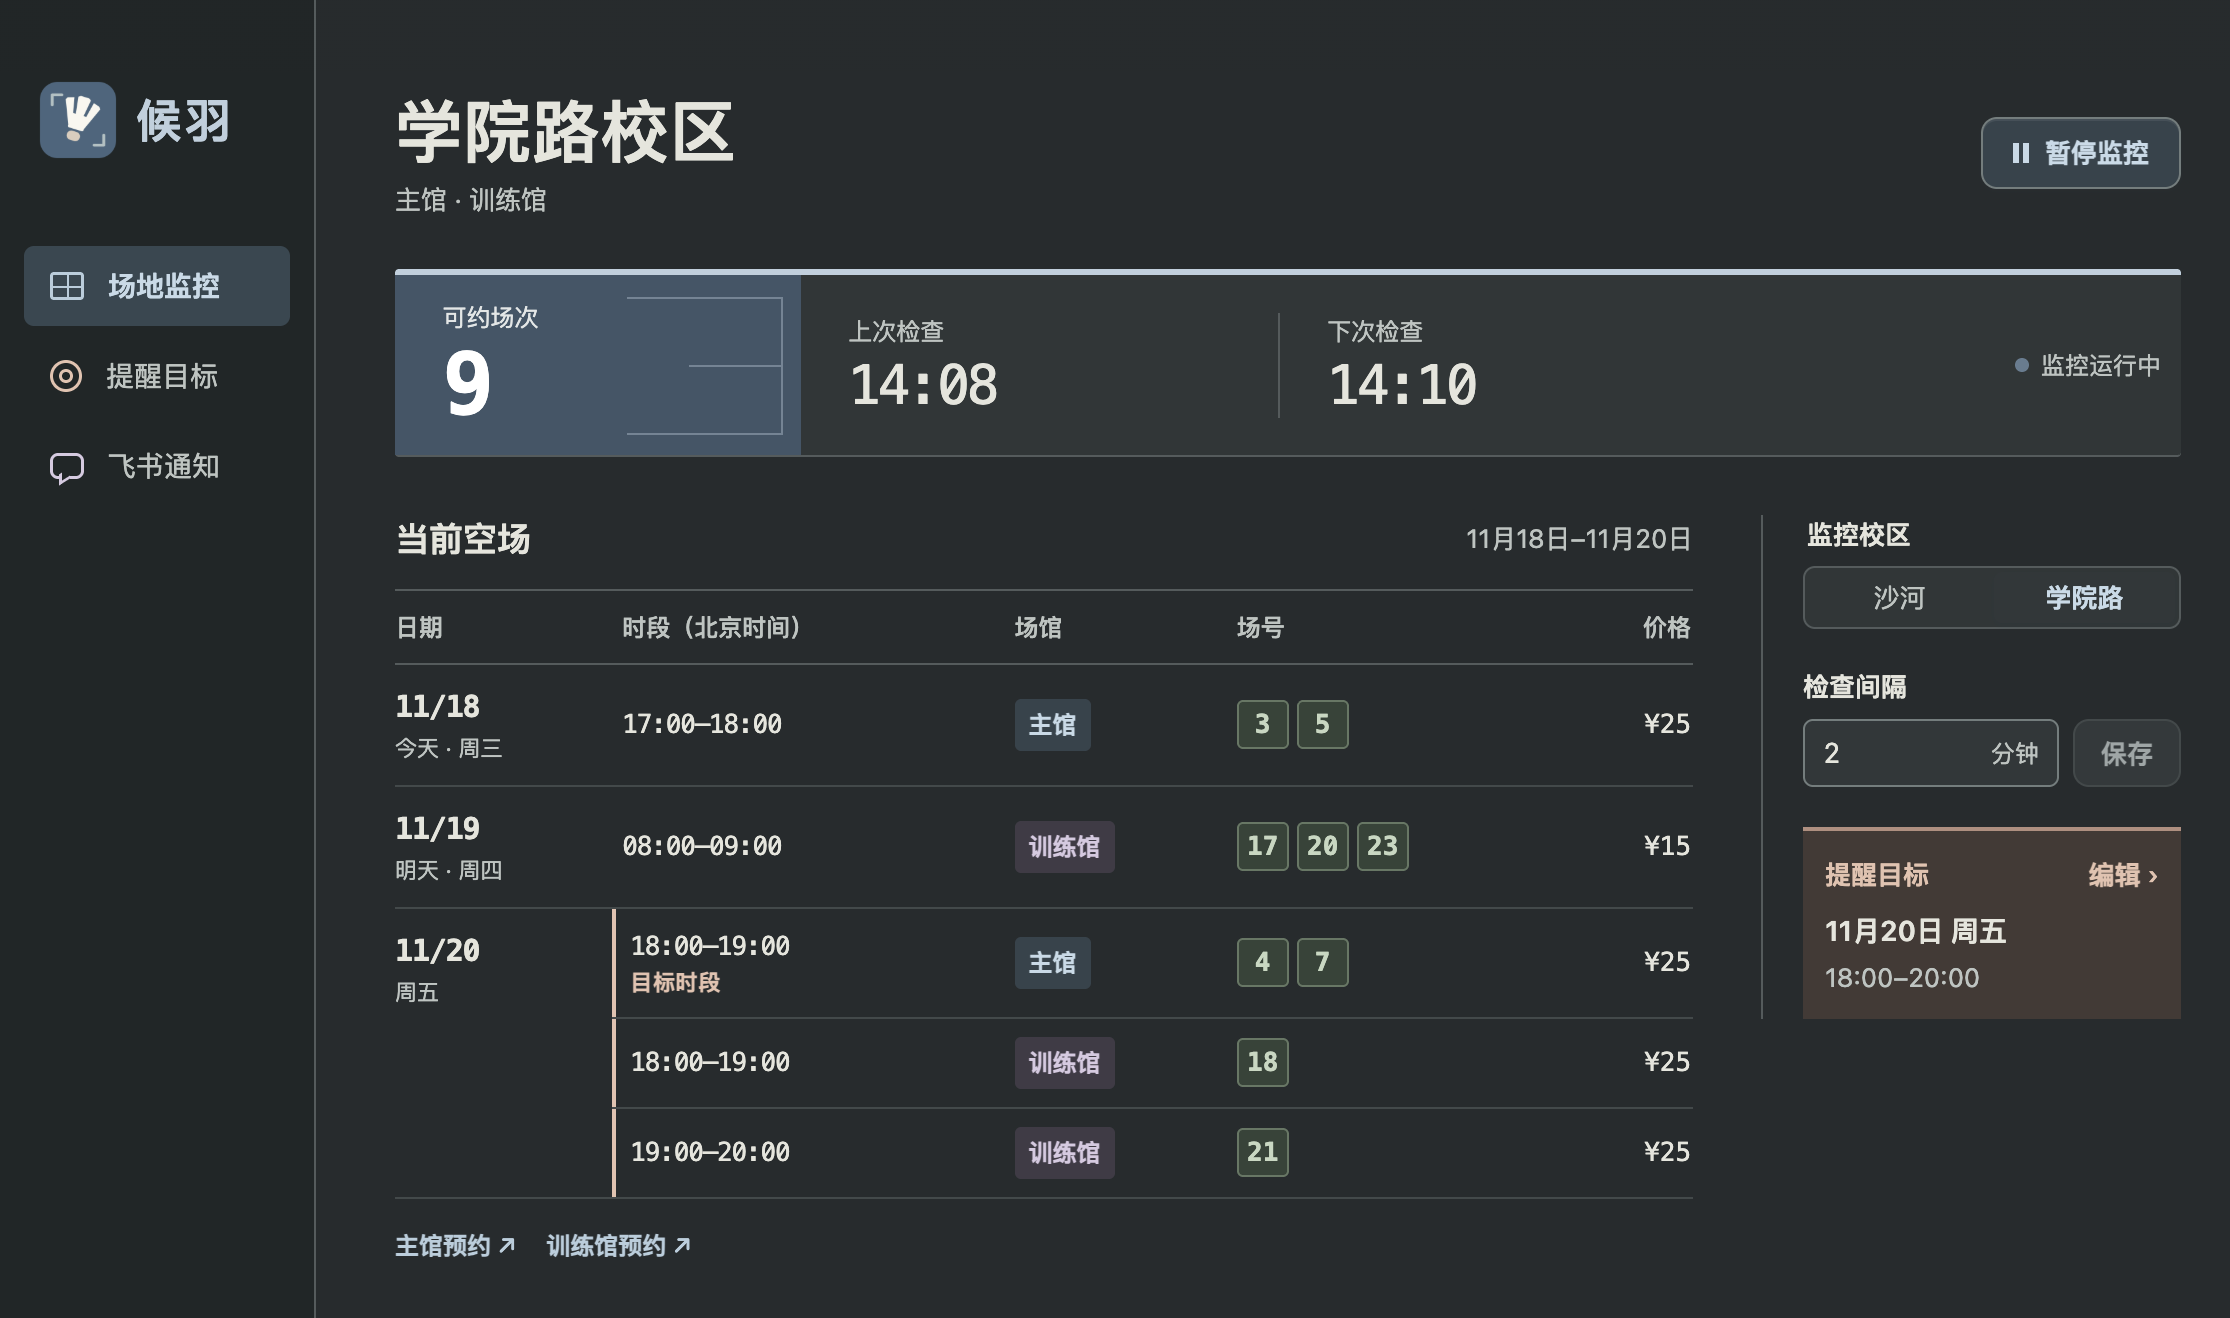
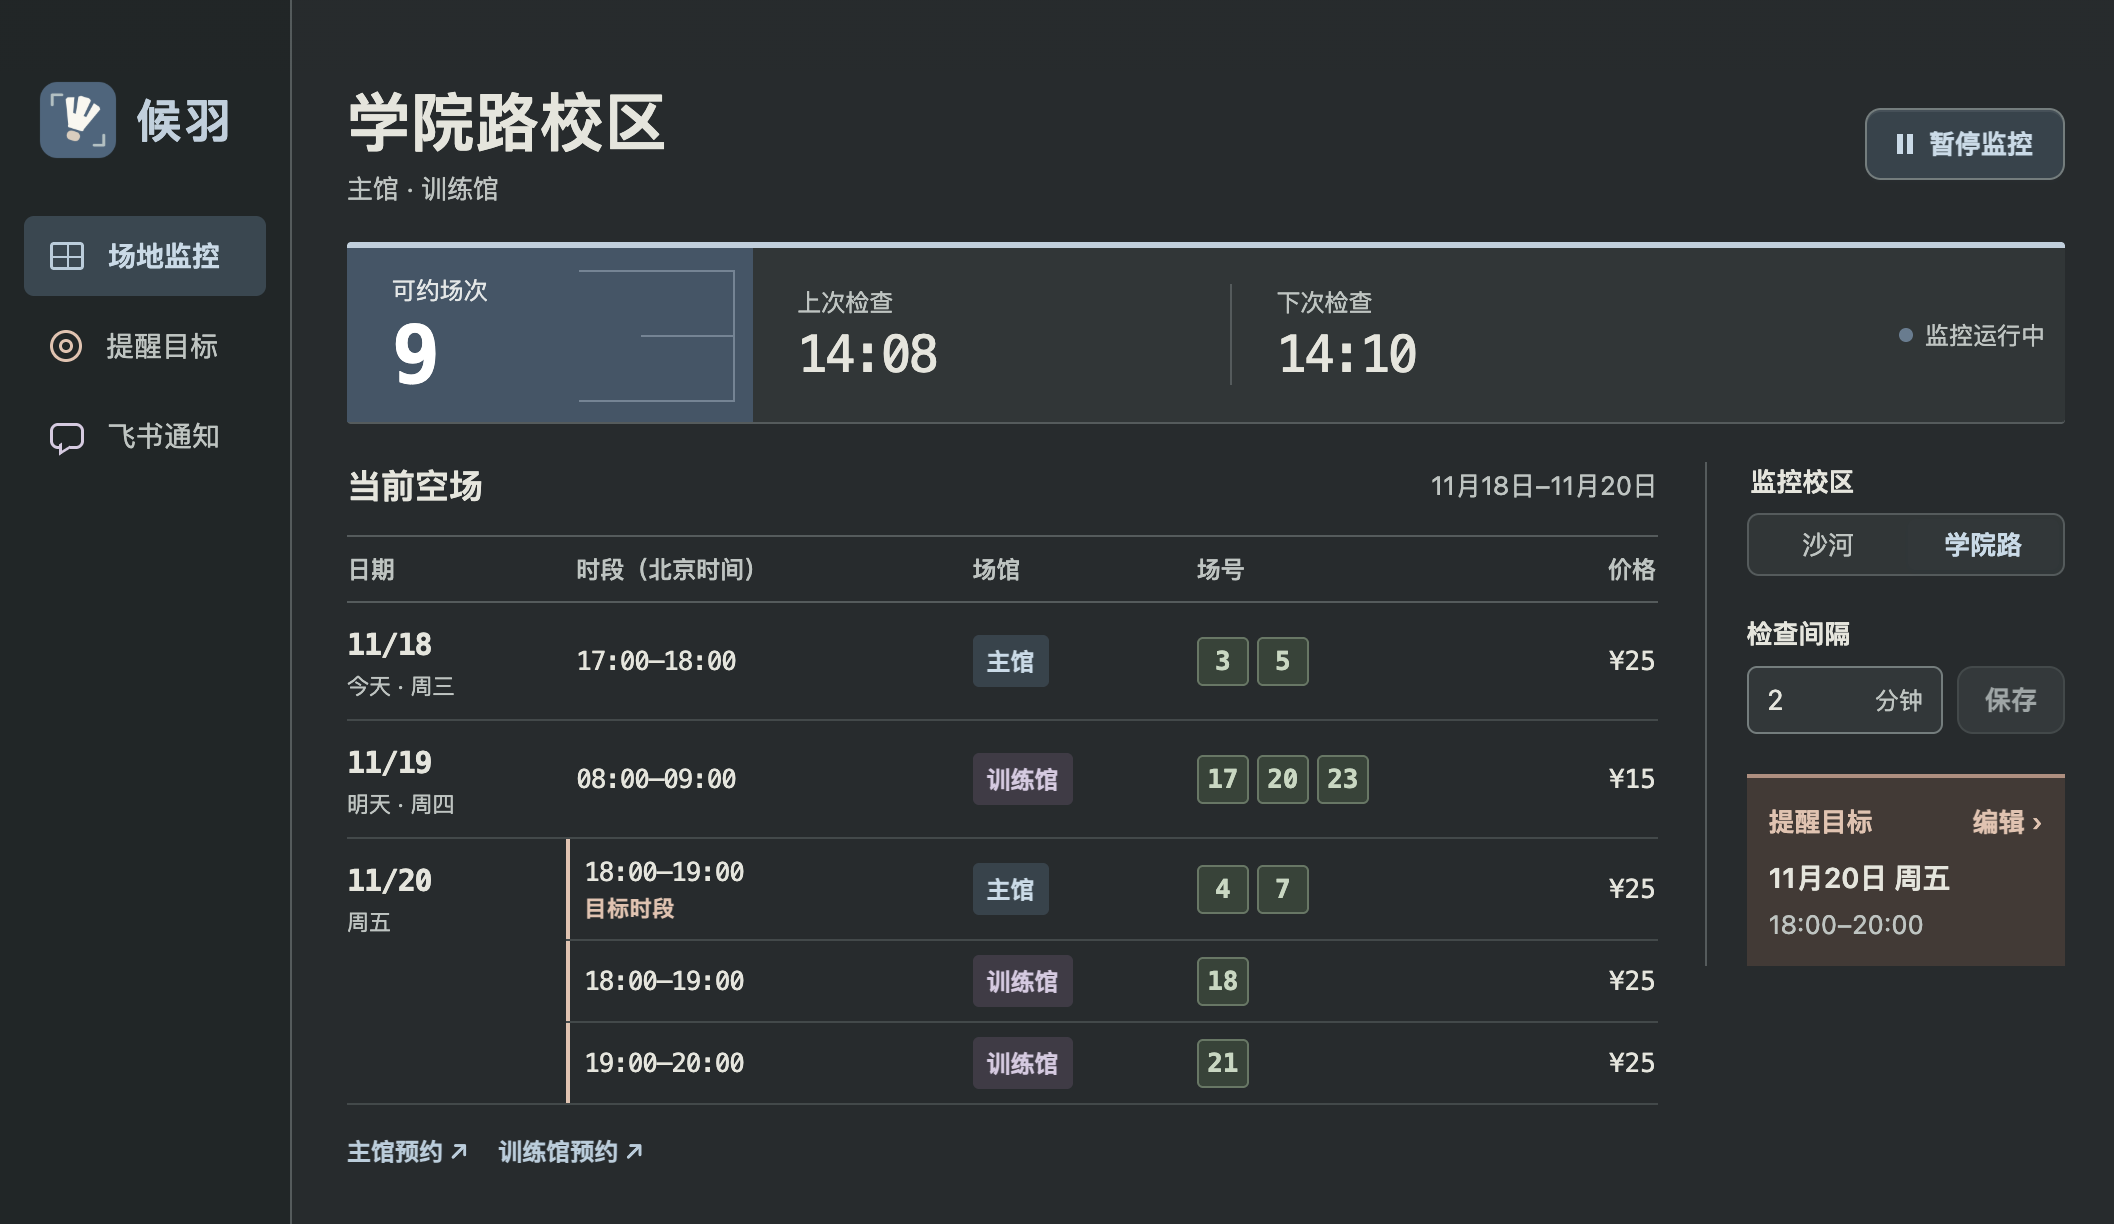
Bring the schedule, target range and Feishu preview into a compact desktop layout

diff --git a/src/ui/styles.css b/src/ui/styles.css
@@ -3,7 +3,7 @@
   font: 14px/1.5 -apple-system, BlinkMacSystemFont, "Segoe UI", "PingFang SC", "Microsoft YaHei UI", system-ui, sans-serif;
   color: var(--ink);
   background: var(--surface);
-  --rail-width: 158px;
+  --rail-width: 146px;
   --bar-height: 0px;
   --ink: light-dark(#333f47, #e5e5dc);
   --blue: light-dark(#49667e, #b7cedd);
@@ -58,7 +58,7 @@ h2 { font-size: 17px; line-height: 1.4; font-weight: 650; }
   padding: calc(40px - var(--bar-height)) 12px 16px; background: var(--rail); border-right: 1px solid var(--line);
 }
 .brand, .nav, .account-state, .status, .button { display: inline-flex; align-items: center; }
-.brand { gap: 9px; margin: 0 7px 43px; }
+.brand { gap: 9px; margin: 0 7px 28px; }
 .brand img { display: block; width: 40px; height: 40px; }
 .brand strong { color: var(--navy); font-size: 23px; letter-spacing: .06em; }
 .navigation { display: grid; gap: 5px; }
@@ -96,8 +96,8 @@ h2 { font-size: 17px; line-height: 1.4; font-weight: 650; }
 .dot, #push-status::before { display: inline-block; width: 7px; height: 7px; flex: none; border-radius: 50%; background: #737d82; }
 .dot[data-tone=good], [data-tone=good] .dot, #push-status[data-tone=good]::before { background: #647d91; }
 .dot[data-tone=warn], [data-tone=warn] .dot, #push-status[data-tone=warn]::before { background: #a26354; }
-.workspace { grid-column: 2; grid-row: 2; overflow: auto; scroll-padding: 12px; width: 100%; max-width: 1450px; min-width: 0; margin: 0 auto; padding: calc(43px - var(--bar-height)) clamp(18px, 3.5vw, 54px) 38px; }
-.page-head { display: flex; justify-content: space-between; align-items: center; gap: 12px; margin-bottom: 25px; min-height: 58px; }
+.workspace { grid-column: 2; grid-row: 2; overflow: auto; scroll-padding: 12px; width: 100%; max-width: 1500px; min-width: 0; margin: 0 auto; padding: max(4px, calc(39px - var(--bar-height))) clamp(18px, 2.6vw, 38px) 25px; }
+.page-head { display: flex; justify-content: space-between; align-items: center; gap: 12px; margin-bottom: 17px; min-height: 50px; }
 .page-head p, .subtle, .field-note, .push-instructions, #saved-place, #shortcut-place { color: var(--muted); font-size: 13px; }
 .page-head p { margin-top: 3px; }
 .button { justify-content: center; gap: 8px; min-height: 33px; padding: 5px 13px; background: var(--input); border: 1px solid var(--control-border); border-radius: 8px; box-shadow: inset 0 1px 0 var(--shine), 0 1px 2px #2d393d15; font-weight: 560; white-space: nowrap; font-size: 13px; }
@@ -135,13 +135,13 @@ h2 { font-size: 17px; line-height: 1.4; font-weight: 650; }
 .status { color: var(--muted); font-size: 12px; white-space: nowrap; }
 .scoreboard .status { margin-right: 10px; }
 #push-status::before { content: ''; }
-.monitor-grid { display: grid; grid-template-columns: minmax(0, 1fr) 210px; align-items: start; gap: clamp(21px, 3vw, 42px); margin-top: 29px; }
-.section-head, .connection-head, .saved-strip { display: flex; align-items: center; justify-content: space-between; gap: 8px 12px; }
+.monitor-grid { display: grid; grid-template-columns: minmax(0, 1fr) clamp(170px, 17vw, 224px); align-items: start; gap: clamp(15px, 2.2vw, 32px); margin-top: 19px; }
+.section-head, .connection-head { display: flex; align-items: center; justify-content: space-between; gap: 8px 12px; }
 .section-head { margin-bottom: 13px; flex-wrap: wrap; }
 .schedule, .table-wrap { min-width: 0; }
 .table-wrap { overflow-x: auto; }
 table { border-collapse: collapse; width: 100%; font-variant-numeric: tabular-nums; }
-table th, table td { text-align: left; padding: 9px 5px; }
+table th, table td { text-align: left; padding: 7px 5px; }
 thead th { border-block: 1px solid var(--line); font-weight: 500; font-size: 12px; color: var(--muted); }
 thead th:first-child, .date-cell { padding-left: 0; }
 table :is(th,td):last-child { text-align: right; padding-right: 1px; }
@@ -163,7 +163,7 @@ tbody .new-day > *, .date-cell { border-top: 1px solid var(--line); }
 .court-number { min-width: 26px; padding: 2px 4px; border: 1px solid var(--court-border); border-radius: 3px; background: var(--court-fill); color: var(--green); font: 600 13px/1.4 var(--numeric); text-align: center; }
 .booking-links { display: flex; flex-wrap: wrap; align-items: center; gap: 3px 15px; margin-top: 11px; }
 .booking-links .quiet { font-size: 12px; }
-.empty { display: grid; align-content: center; justify-items: center; min-height: 140px; text-align: center; padding: 18px; border-block: 1px solid var(--line); }
+.empty { display: grid; align-content: center; justify-items: start; min-height: 96px; padding: 15px 3px; border-block: 1px solid var(--line); }
 .empty strong { font-size: 15px; font-weight: 560; }
 .empty p { margin-top: 4px; color: var(--muted); font-size: 13px; }
 .inspector { min-width: 0; padding-left: 20px; border-left: 1px solid var(--line); }
@@ -191,25 +191,41 @@ input::placeholder { color: var(--muted); }
 .shortcut .section-head { margin-bottom: 5px; }
 #shortcut-range { font-size: 14px; font-weight: 600; }
 #shortcut-place { white-space: pre-line; margin-top: 3px; }
-.form-sheet { max-width: 590px; border-top: 3px solid var(--navy); }
-.saved-strip, .connection-head { min-height: 60px; padding: 12px 0; border-bottom: 1px solid var(--line); }
-.saved-strip > div { display: flex; flex-wrap: wrap; align-items: baseline; gap: 3px 13px; }
-.saved-strip .field-label { color: var(--muted); font-size: 12px; }
+.form-sheet { border-top: 2px solid var(--navy); }
+.split-sheet { display: grid; grid-template-columns: minmax(0, 1.35fr) minmax(215px, .85fr); gap: clamp(16px, 2.6vw, 36px); align-items: start; padding-top: 16px; }
+.sheet-heading, .connection-head { min-height: 36px; padding-bottom: 9px; border-bottom: 1px solid var(--line); }
 #page-target .form-sheet { border-top-color: #a8806d; }
-.saved-strip { padding-inline: 14px; background: var(--clay-paper); }
+.saved-strip { display: grid; justify-items: start; min-width: 0; padding: 13px 15px; border-left: 3px solid #a8806d; background: var(--clay-paper); }
+.saved-strip h2, .message-preview h2 { font-size: 13px; font-weight: 650; margin-bottom: 10px; }
+.saved-strip h2 { color: var(--clay-ink); }
+.saved-strip > strong { font-size: 16px; }
+#saved-place { color: var(--clay-ink); font-size: 16px; font-variant-numeric: tabular-nums; }
+.day-band { width: 100%; margin: 12px 0; }
+.day-band svg { display: block; width: 100%; height: 10px; }
+.band-base { fill: var(--control-border); }
+#band-range { fill: var(--clay-ink); }
+.band-ticks { stroke: var(--clay-paper); stroke-width: 5; }
+.day-band div { display: flex; justify-content: space-between; margin-top: 3px; color: var(--muted); font: 11px var(--numeric); }
+#target-coverage { font-size: 13px; }
+.saved-strip button { margin-top: 8px; }
 .saved-strip .quiet { color: var(--clay-ink); }
 .push-sheet { border-top-color: #91849a; }
-.connection-head { padding-inline: 14px; background: var(--plum-paper); }
-.saved-strip strong { font-size: 15px; }
-.form-row { display: grid; grid-template-columns: 94px minmax(0, 1fr); align-items: baseline; gap: 9px; margin: 18px 0; }
-.form-row > label, .coverage-row .field-label { font-weight: 600; font-size: 13px; }
+.message-preview { min-width: 0; padding-left: clamp(12px, 1.7vw, 24px); border-left: 1px solid var(--line); }
+.message-preview h2 { color: var(--plum-ink); }
+.message-card { overflow: hidden; border: 1px solid var(--line); border-radius: 7px; background: var(--input); font-size: 13px; }
+.message-top, .message-body { padding: 10px 12px; }
+.message-top { color: var(--selected-ink); background: var(--blue-paper); }
+.message-top strong, .message-top small { display: block; }
+.message-top small { margin-top: 3px; font-size: 12px; }
+.message-body p { margin-top: 3px; }
+.form-row { display: grid; grid-template-columns: 76px minmax(0, 1fr); align-items: baseline; gap: 8px; margin: 13px 0; }
+.form-row > label { font-weight: 600; font-size: 13px; }
 #target-date { width: min(100%, 220px); }
 .range-fields, .form-foot, .push-actions { display: flex; gap: 10px; align-items: center; flex-wrap: wrap; }
 .range-fields input { width: 118px; }
 .range-fields span { color: var(--muted); }
 .field-note { margin-top: 6px; }
 .form-foot { border-top: 1px solid var(--line); padding-top: 15px; margin-top: 16px; }
-.coverage-row p { font-size: 13px; }
 .push-instructions { margin: 16px 0; }
 .push-instructions .quiet { margin-left: 5px; }
 .push-actions { margin-top: 16px; gap: 8px 16px; }
@@ -224,6 +240,9 @@ input::placeholder { color: var(--muted); }
   .inspector { padding-left: 14px; }
 }
 @media (max-width: 900px) {
+  .split-sheet { grid-template-columns: minmax(0, 1fr); gap: 18px; }
+  .message-preview { padding: 13px 0 0; border: 0; border-top: 1px solid var(--line); }
+  .message-card { max-width: 420px; }
   .monitor-grid { grid-template-columns: minmax(0, 1fr); }
   .inspector { display: grid; grid-template-columns: minmax(0, 1.3fr) minmax(155px, 1fr); gap: 20px; border: 0; border-top: 1px solid var(--line); padding: 14px 0 0; }
   .shortcut { align-self: start; margin: 0; }

diff --git a/src/ui/index.html b/src/ui/index.html
@@ -74,25 +74,35 @@
 
       <section id="page-target" aria-labelledby="target-title" hidden>
         <header class="page-head"><div><h1 id="target-title">提醒目标</h1><p id="target-campus"></p></div></header>
-        <div class="form-sheet">
-          <div class="saved-strip"><div><span class="field-label">当前范围</span><strong id="saved-range"></strong><span id="saved-place"></span></div><button class="quiet" type="button" id="clear-target" hidden>移除目标</button></div>
-          <p class="warning" id="saved-note" hidden></p>
+        <div class="form-sheet split-sheet">
           <form id="target-form">
+            <h2 class="sheet-heading">选择时段</h2>
             <div class="form-row"><label for="target-date">日期</label><input id="target-date" type="date" aria-describedby="target-error" required></div>
             <div class="form-row"><label for="target-start">时段</label><div class="form-value">
               <div class="range-fields"><input id="target-start" type="time" aria-label="开始时间" required><span aria-hidden="true">—</span><input id="target-end" type="time" aria-label="结束时间" aria-describedby="target-error" required></div>
               <p class="field-note">按北京时间，场次须完整落在此时段内。</p>
             </div></div>
-            <div class="form-row coverage-row"><span class="field-label">场地</span><p id="target-coverage"></p></div>
             <p class="form-error" id="target-error" role="alert" hidden></p>
             <div class="form-foot"><button type="submit" class="button primary" id="save-target">保存目标</button></div>
           </form>
+          <aside class="saved-strip" aria-labelledby="saved-heading">
+            <h2 id="saved-heading">当前提醒范围</h2>
+            <strong id="saved-range"></strong><span id="saved-place"></span>
+            <div class="day-band" aria-hidden="true">
+              <svg viewBox="0 0 1440 12" preserveAspectRatio="none" focusable="false"><rect class="band-base" x="0" y="3" width="1440" height="6"></rect><rect id="band-range" x="0" y="2" width="1440" height="8"></rect><path d="M360 0v12 M720 0v12 M1080 0v12" class="band-ticks"></path></svg>
+              <div><span>00</span><span>06</span><span>12</span><span>18</span><span>24</span></div>
+            </div>
+            <p id="target-coverage"></p>
+            <p class="warning" id="saved-note" hidden></p>
+            <button class="quiet" type="button" id="clear-target" hidden>移除目标</button>
+          </aside>
         </div>
       </section>
 
       <section id="page-feishu" aria-labelledby="feishu-title" hidden>
         <header class="page-head"><div><h1 id="feishu-title">飞书通知</h1></div></header>
-        <div class="form-sheet push-sheet">
+        <div class="form-sheet split-sheet push-sheet">
+          <section class="connection-settings" aria-label="群机器人设置">
           <div class="connection-head"><h2>群机器人</h2><span class="status" id="push-status" data-tone="neutral">未连接</span></div>
           <p id="push-service" class="field-note" hidden></p>
           <form id="push-form" autocomplete="off" aria-describedby="connect-note">
@@ -109,6 +119,14 @@
           </div>
           <p id="storage-note" class="warning" hidden>系统安全存储不可用，本次连接仅在退出前有效。</p>
           <p class="feedback" id="push-feedback" role="status" hidden></p>
+          </section>
+          <aside class="message-preview" aria-labelledby="sample-heading">
+            <h2 id="sample-heading">群消息示例</h2>
+            <div class="message-card">
+              <div class="message-top"><strong id="preview-title"></strong><small>17:42 · 北京时间</small></div>
+              <div class="message-body"><strong id="preview-date"></strong><p id="preview-slot"></p><p>场号 <strong>3、5 号</strong>　·　¥25/场</p></div>
+            </div>
+          </aside>
         </div>
       </section>
     </main>

diff --git a/src/ui/renderer.js b/src/ui/renderer.js
@@ -105,6 +105,11 @@ function renderTarget(options, venues, now) {
   text('saved-range', range);
   text('shortcut-range', range);
   text('saved-place', place);
+  const minute = clock => Number(clock.slice(0, 2)) * 60 + Number(clock.slice(3));
+  const start = target ? minute(target.start) : 0;
+  const end = target ? minute(target.end) : target === null ? 0 : 1440;
+  get('band-range').setAttribute('x', String(start));
+  get('band-range').setAttribute('width', String(end - start));
   text('shortcut-place', place);
   text('saved-note', note);
   get('saved-note').hidden = !note;
@@ -338,6 +343,9 @@ function render() {
   }
 
   const legacyService = { pushplus: 'PushPlus', serverchan: 'Server酱' }[current.pushService];
+  text('preview-title', `候羽｜${campusNames[options.campus]}疑似退订 2 场次`);
+  text('preview-date', shortDay(isoDay.format(now + 86400000)));
+  text('preview-slot', `18:00–19:00 · ${venues[0]?.label ?? '羽毛球馆'}`);
   const pushNeedsAttention = delivery.status === 'blocked' || (delivery.persistent && !delivery.configured);
   const pushStatus = legacyService ? '待切换' : pushNeedsAttention ? '需检查配置' : delivery.configured ? '已连接' : '未连接';
   get('push-service').hidden = !legacyService;

diff --git a/README.md b/README.md
@@ -19,7 +19,7 @@
 
 在飞书群里添加「自定义机器人」。打开候羽的「飞书通知」，粘贴 Webhook，点 **连接并测试**。若机器人开启了签名校验，同时填入签名密钥。在群里收到「候羽｜测试提醒」即已连通。
 
-<img src="docs/feishu.png" width="690" alt="飞书通知页，包含 Webhook、可选签名密钥和连接并测试按钮">
+<img src="docs/feishu.png" width="840" alt="飞书通知页，左侧连接群机器人，右侧预览群消息示例">
 
 ### 2. 登录并开始监控
 
@@ -34,6 +34,6 @@
 
 在 **提醒目标** 选好日期和起止时间，点 **保存目标**。例如选学院路 18:00–20:00，主馆和训练馆完整落在这个范围内的场次都会纳入提醒。空场表用「目标时段」标出对应行。移除目标可恢复该校区全部退订提醒。
 
-<img src="docs/target.png" width="690" alt="学院路 18:00 到 20:00 的目标，覆盖主馆和训练馆全部场号">
+<img src="docs/target.png" width="840" alt="左侧编辑日期和时段，右侧显示学院路 18:00 到 20:00 的已保存范围和覆盖场馆">
 
 **何时推送？** 同一场次上次已预约、本次变为绿色可约时，候羽才向飞书发送疑似退订。首次查询和每天北京时间 07:00 正常放号只刷新列表。电脑保持唤醒、联网，关掉窗口后仍可在菜单栏或托盘找到候羽。[详细指南](docs/guide.md)
